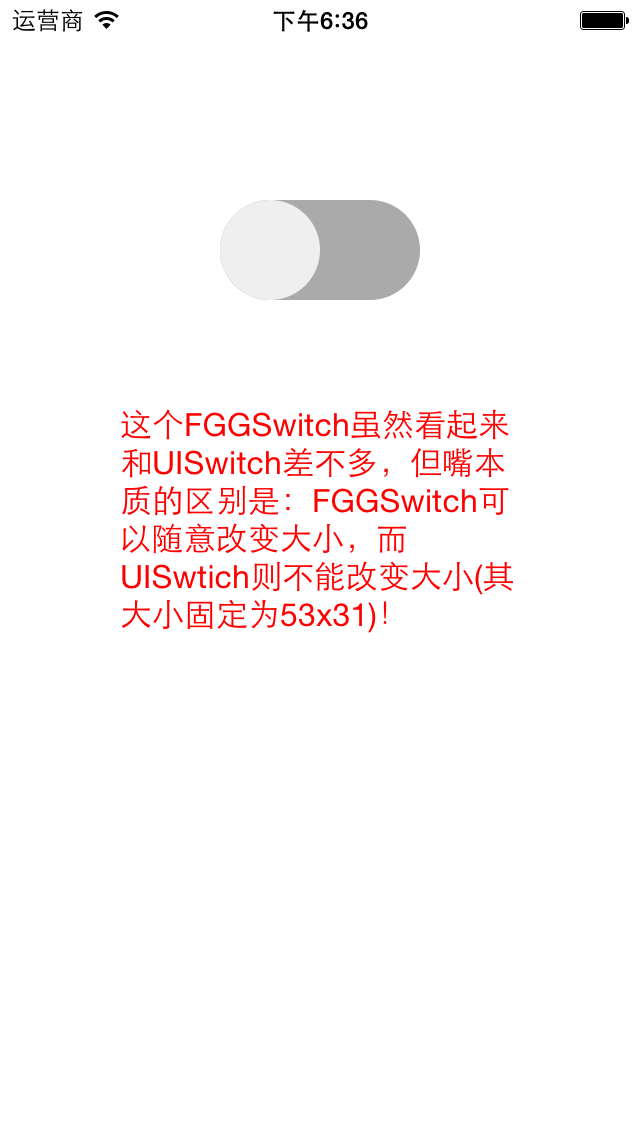
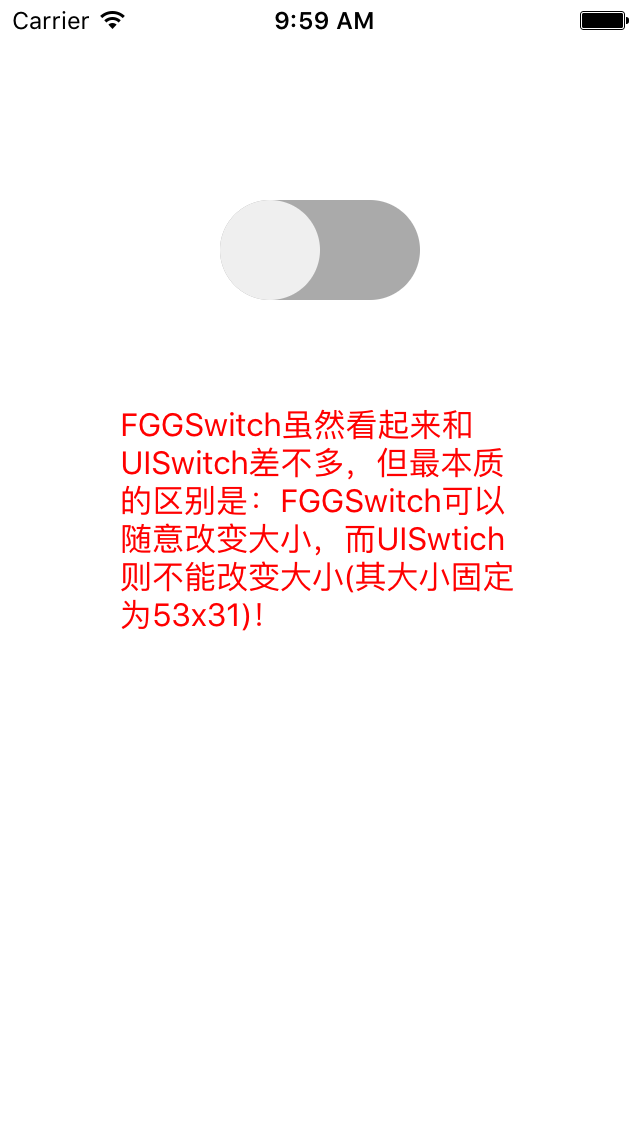
更正一个错字

Changed region(s): [[0.1875, 0.3389, 0.8125, 0.5546], [0.0, 0.0, 0.1875, 0.0308], [0.4375, 0.0, 0.5938, 0.0308]]

diff --git a/FGGSwitchDemo/ViewController.m b/FGGSwitchDemo/ViewController.m
@@ -45,11 +45,11 @@
 {
     if(_fggSwitch.isOn)
     {
-        NSLog(@"开关打开了");
+        NSLog(@"打开了");
     }
     else
     {
-        NSLog(@"开关关闭了");
+        NSLog(@"关闭了");
     }
 }
 /**
@@ -61,7 +61,7 @@
     tipLb.textColor=[UIColor redColor];
     tipLb.numberOfLines=0;
     tipLb.font=[UIFont systemFontOfSize:16];
-    NSString *tip=@"FGGSwitch虽然看起来和UISwitch差不多，但嘴本质的区别是：FGGSwitch可以随意改变大小，而UISwtich则不能改变大小(其大小固定为53x31)！";
+    NSString *tip=@"FGGSwitch虽然看起来和UISwitch差不多，但最本质的区别是：FGGSwitch可以随意改变大小，而UISwtich则不能改变大小(其大小固定为53x31)！";
     tipLb.text=tip;
     [self.view addSubview:tipLb];
 }
